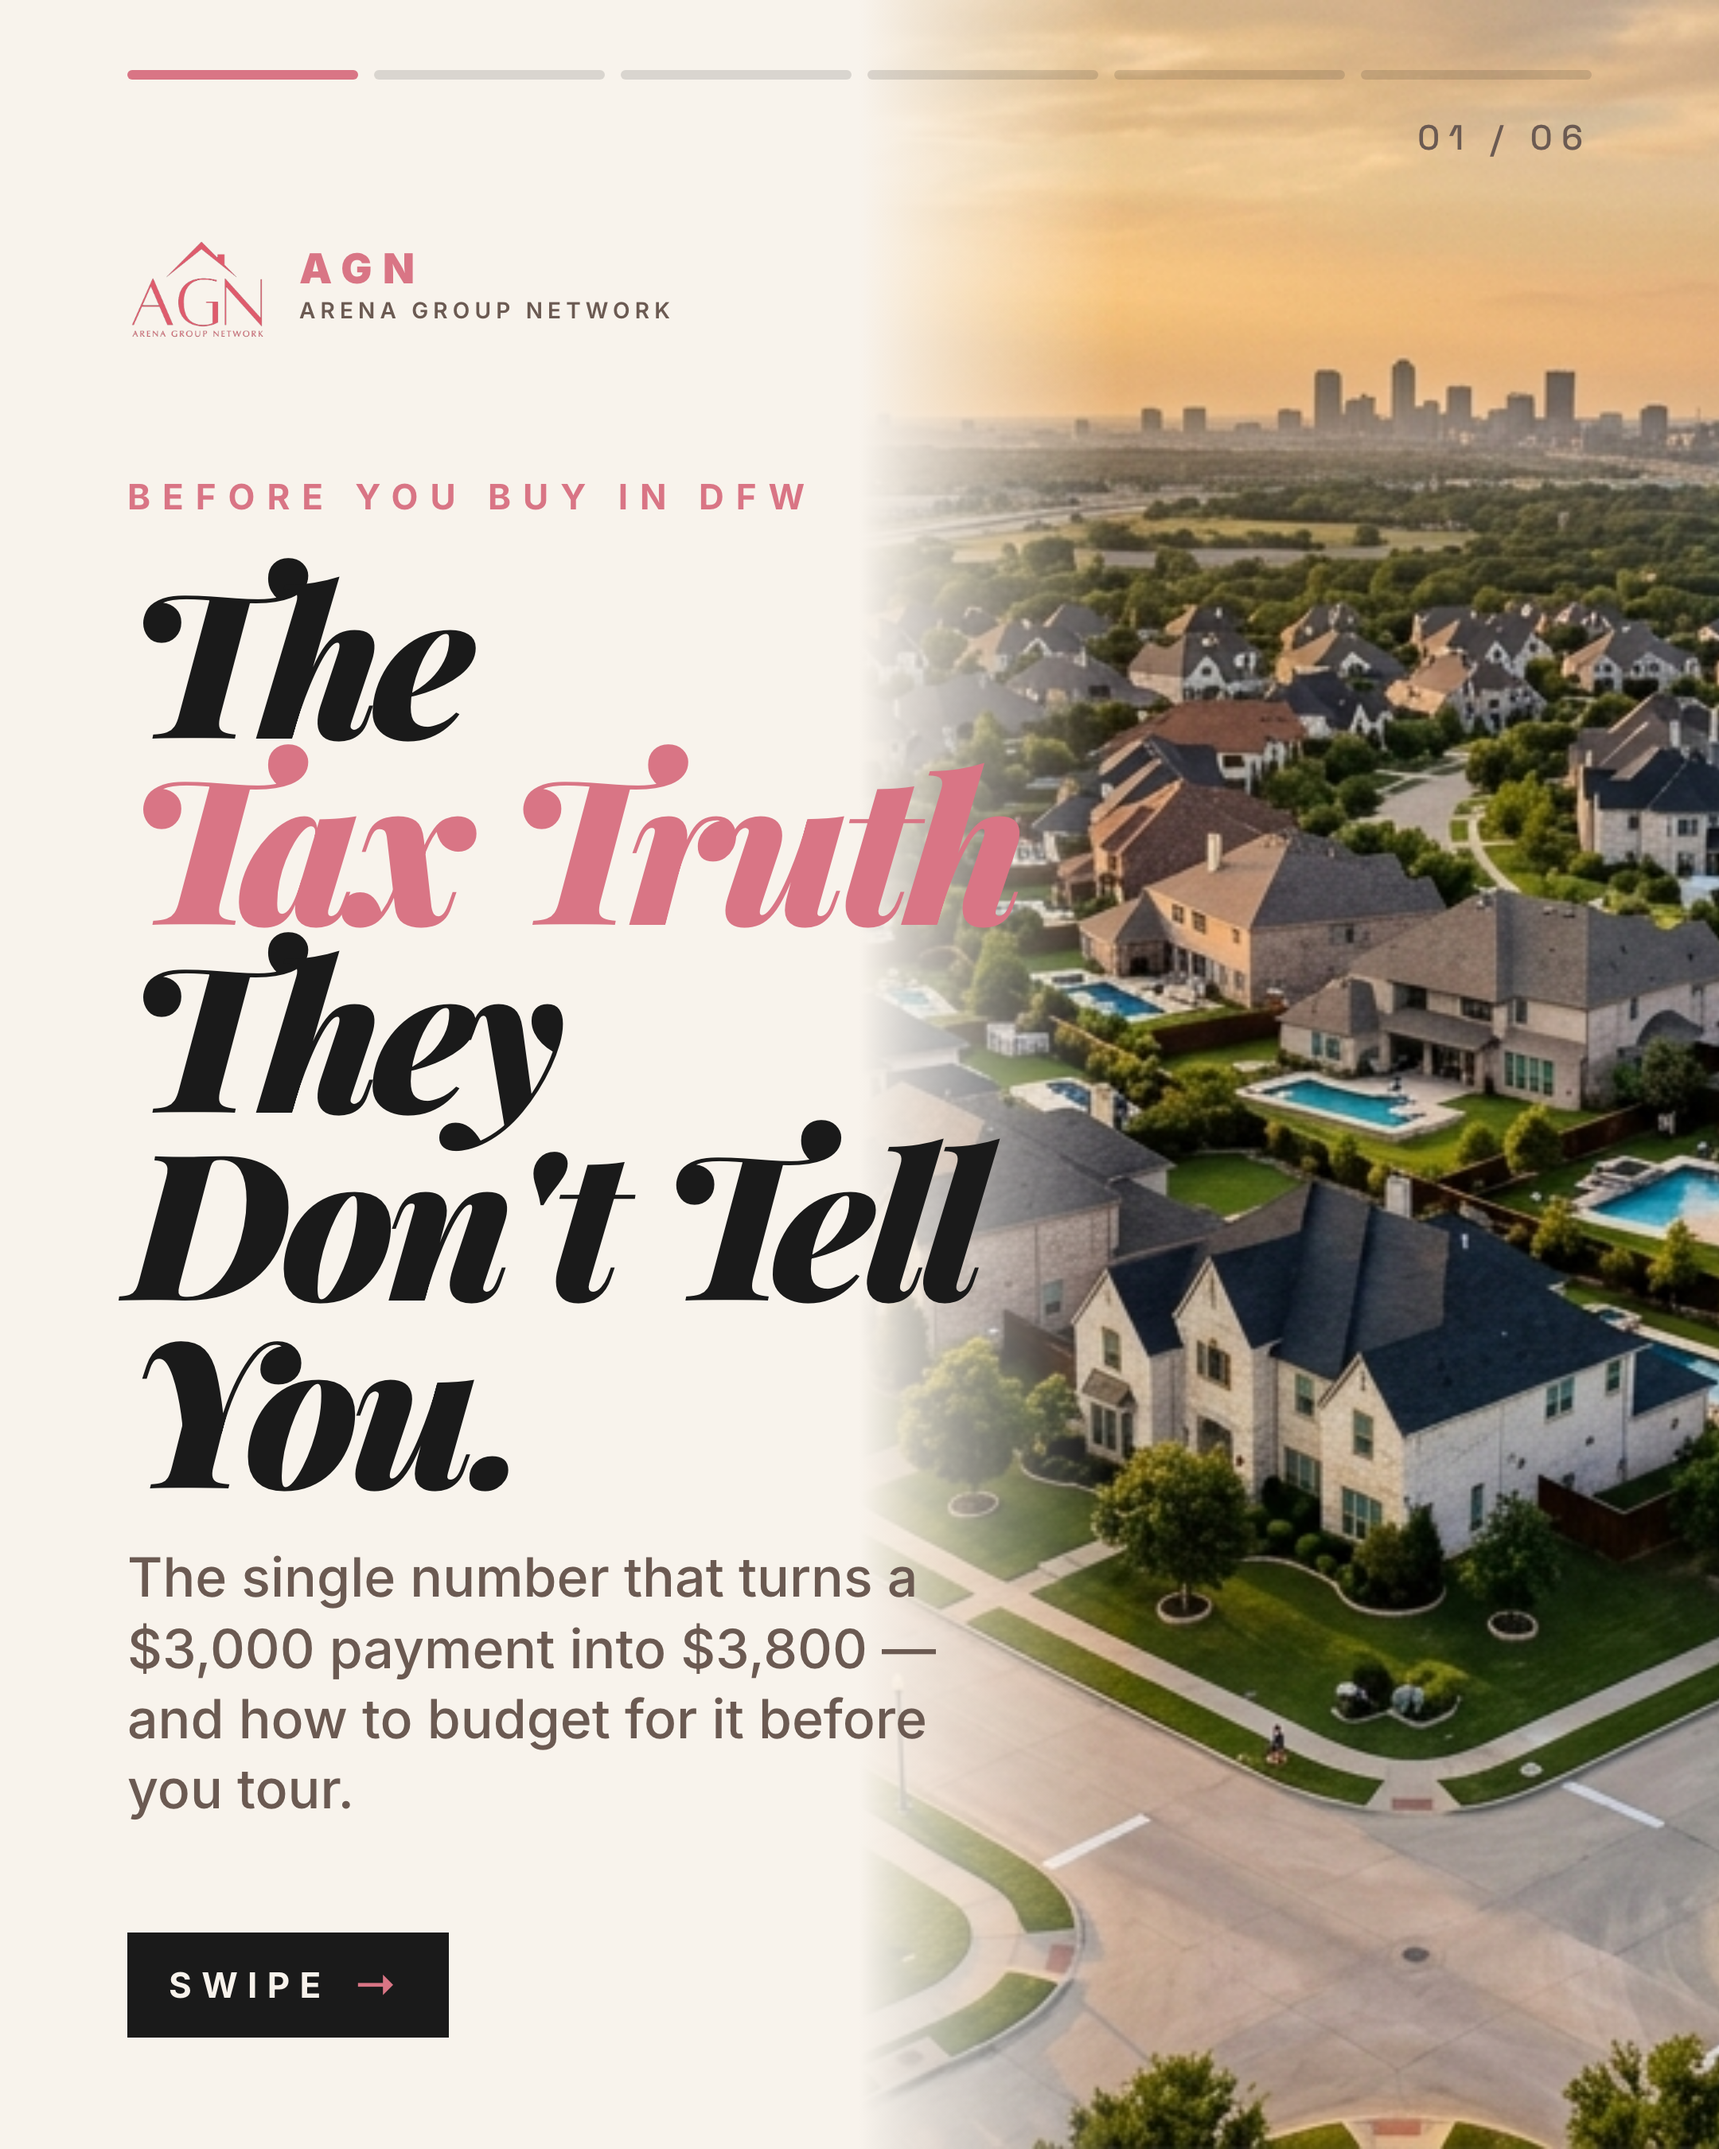
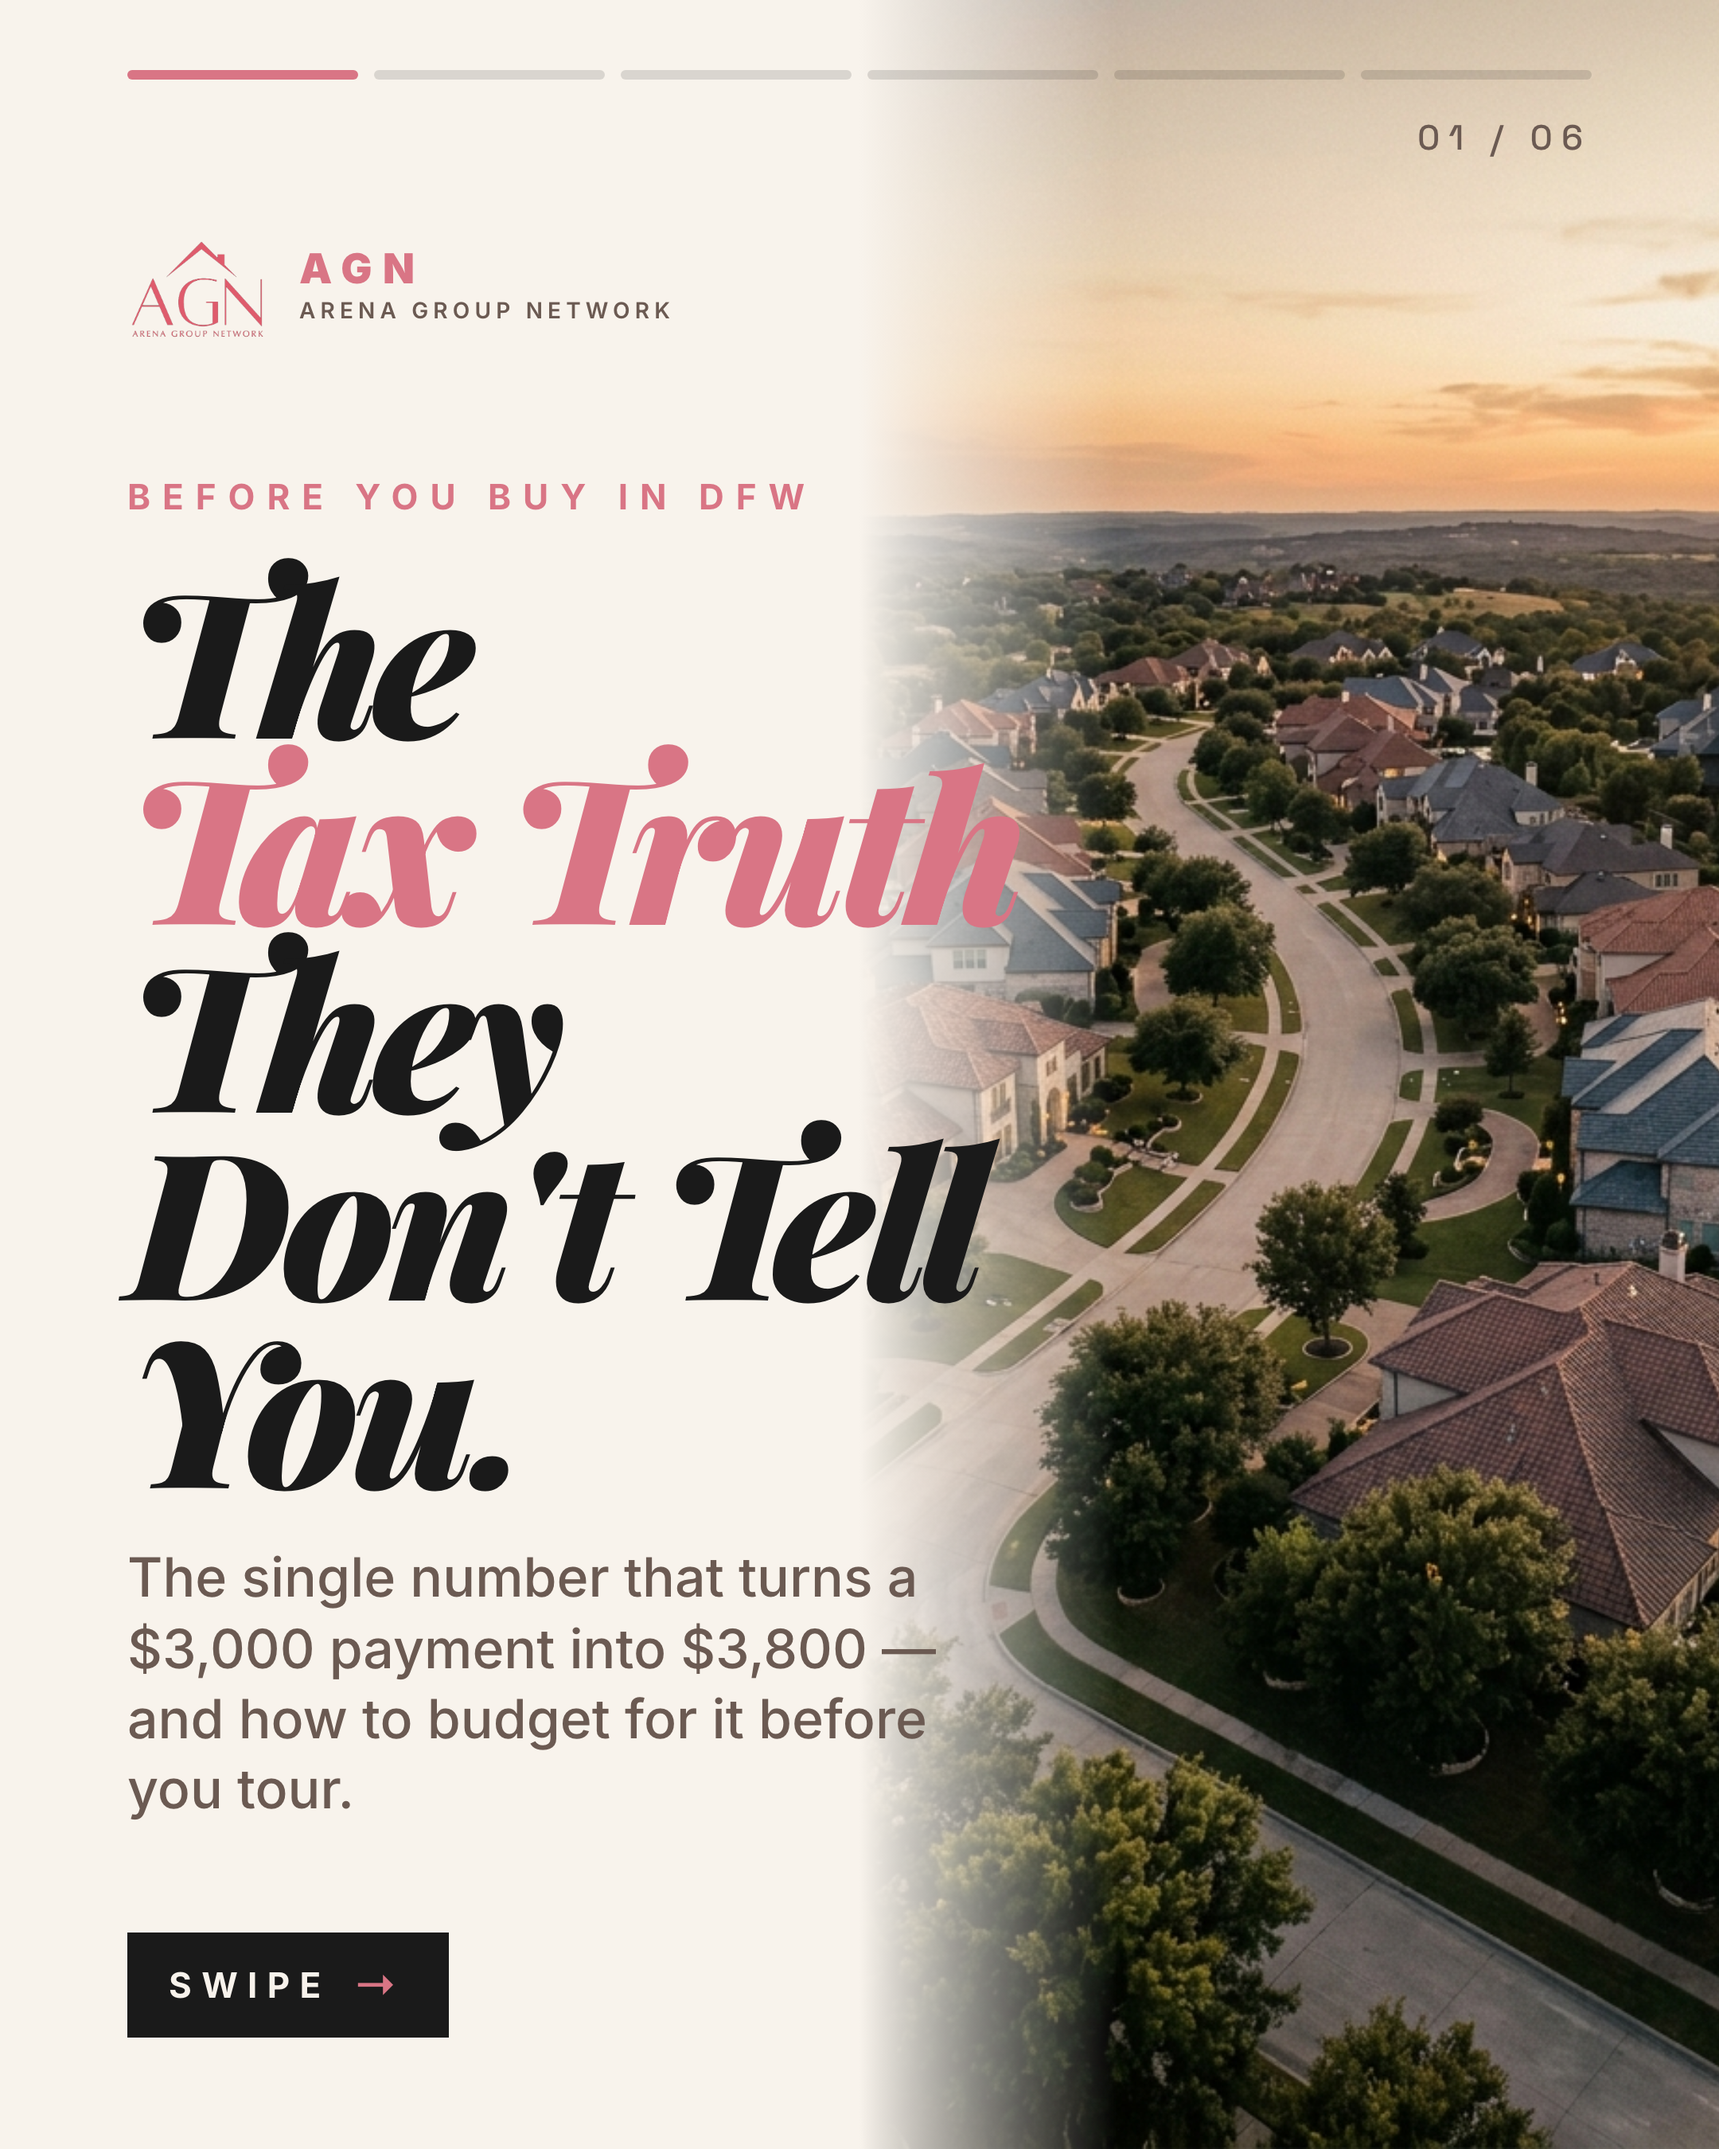
Carousel v2: twilight aerial, transitional home, DFW map flatlay instead of Arena portrait

diff --git a/assets/carousel-demo/slides.html b/assets/carousel-demo/slides.html
@@ -466,24 +466,27 @@
     color: var(--cream);
     justify-content: space-between;
   }
-  .cta .portrait {
+  .cta .map-bg {
     position: absolute;
-    top: 50%;
-    right: 60px;
-    transform: translateY(-50%);
-    width: 340px;
-    height: 420px;
-    border-radius: 6px;
+    top: 0; left: 0; right: 0; bottom: 0;
+    z-index: 0;
     overflow: hidden;
-    box-shadow: 0 30px 60px rgba(0,0,0,0.3);
-    z-index: 2;
-    border: 6px solid var(--cream);
   }
-  .cta .portrait img {
+  .cta .map-bg img {
     width: 100%; height: 100%;
     object-fit: cover;
     display: block;
+    mix-blend-mode: multiply;
+    opacity: 0.35;
+    filter: saturate(0.8);
   }
+  .cta .map-bg::after {
+    content: ''; position: absolute;
+    top: 0; left: 0; right: 0; bottom: 0;
+    background: linear-gradient(180deg, rgba(217,117,133,0.35) 0%, rgba(217,117,133,0.72) 100%);
+  }
+  .cta > *:not(.map-bg) { z-index: 2; }
+  .cta .top, .cta .middle, .cta .bottom { position: relative; }
   .cta::after {
     content: ''; position: absolute;
     bottom: -200px; right: -200px; width: 600px; height: 600px;
@@ -492,8 +495,8 @@
   }
   .cta .top {
     display: flex; flex-direction: column; gap: 30px;
-    z-index: 1;
-    max-width: 64%;
+    z-index: 2;
+    max-width: 100%;
   }
   .cta .top .eyebrow { color: var(--cream); }
   .cta .top h2 {
@@ -507,8 +510,8 @@
   }
   .cta .middle {
     display: flex; flex-direction: column; gap: 24px;
-    z-index: 1;
-    max-width: 64%;
+    z-index: 2;
+    max-width: 100%;
   }
   .cta .dm-box {
     background: var(--ink);
@@ -567,7 +570,7 @@
 
 <!-- ═══ SLIDE 1 · COVER ═══ -->
 <div class="slide cover" id="slide-1">
-  <div class="hero-img"><img src="dfw-neighborhood-aerial.png" alt=""></div>
+  <div class="hero-img"><img src="dfw-aerial-twilight.png" alt=""></div>
   <div class="progress"><div class="seg filled"></div><div class="seg"></div><div class="seg"></div><div class="seg"></div><div class="seg"></div><div class="seg"></div></div>
   <div class="logo-block">
     <img src="AGN-logo.webp" alt="AGN">
@@ -624,7 +627,7 @@
 
 <!-- ═══ SLIDE 4 · MATH IMPACT ═══ -->
 <div class="slide math" id="slide-4">
-  <div class="bg-img"><img src="dfw-home-exterior.png" alt=""></div>
+  <div class="bg-img"><img src="dfw-home-transitional.png" alt=""></div>
   <div class="progress"><div class="seg past"></div><div class="seg past"></div><div class="seg past"></div><div class="seg filled"></div><div class="seg"></div><div class="seg"></div></div>
   <div class="eyebrow">THE REAL NUMBER</div>
   <h2>On a <em>$400K home.</em></h2>
@@ -671,7 +674,7 @@
 
 <!-- ═══ SLIDE 6 · CTA ═══ -->
 <div class="slide cta" id="slide-6">
-  <div class="portrait"><img src="arena-portrait.jpg" alt="Arena Hudson"></div>
+  <div class="map-bg"><img src="dfw-map-flatlay.png" alt=""></div>
   <div class="progress"><div class="seg past"></div><div class="seg past"></div><div class="seg past"></div><div class="seg past"></div><div class="seg past"></div><div class="seg filled"></div></div>
   <div class="top">
     <div class="eyebrow">READY WHEN YOU ARE</div>
